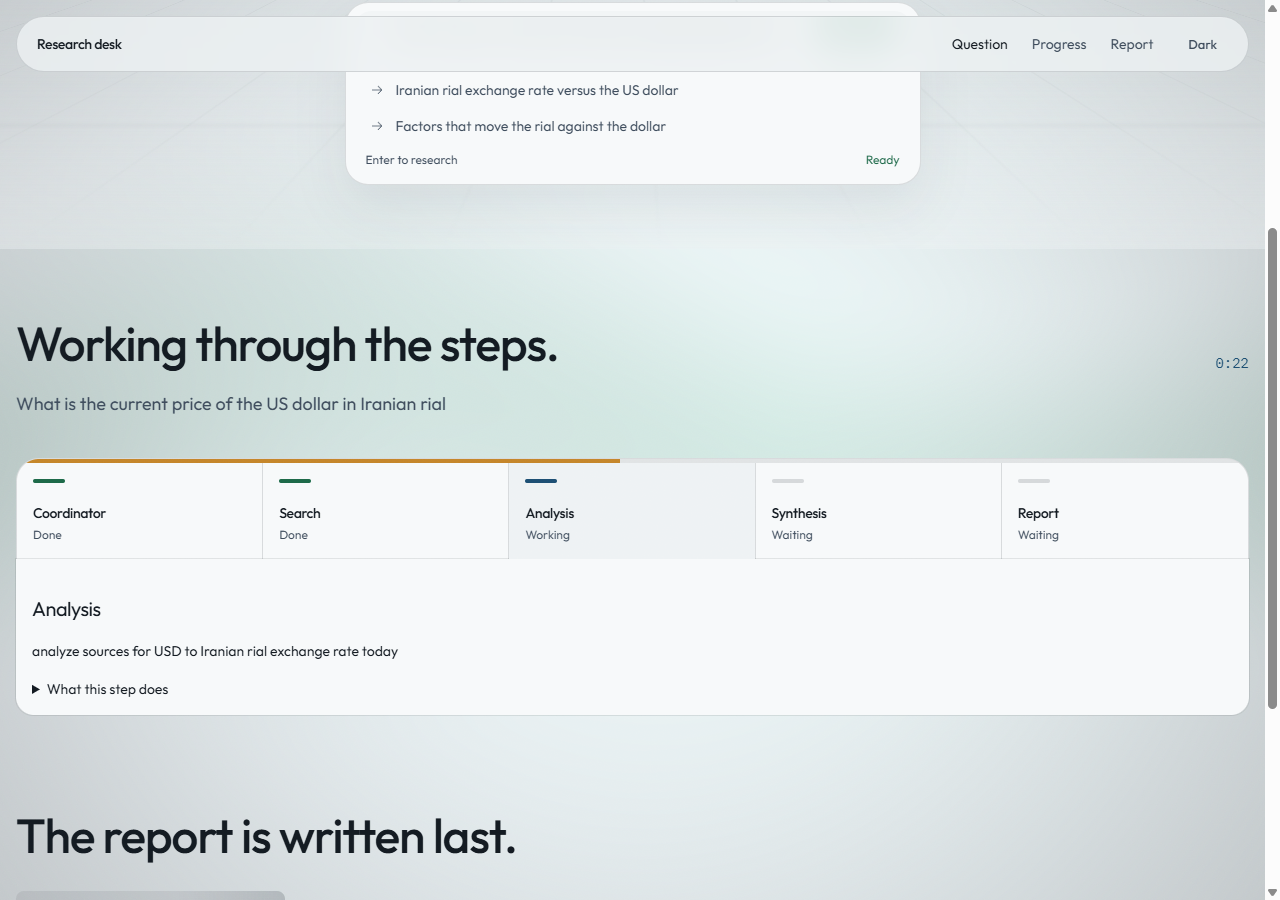
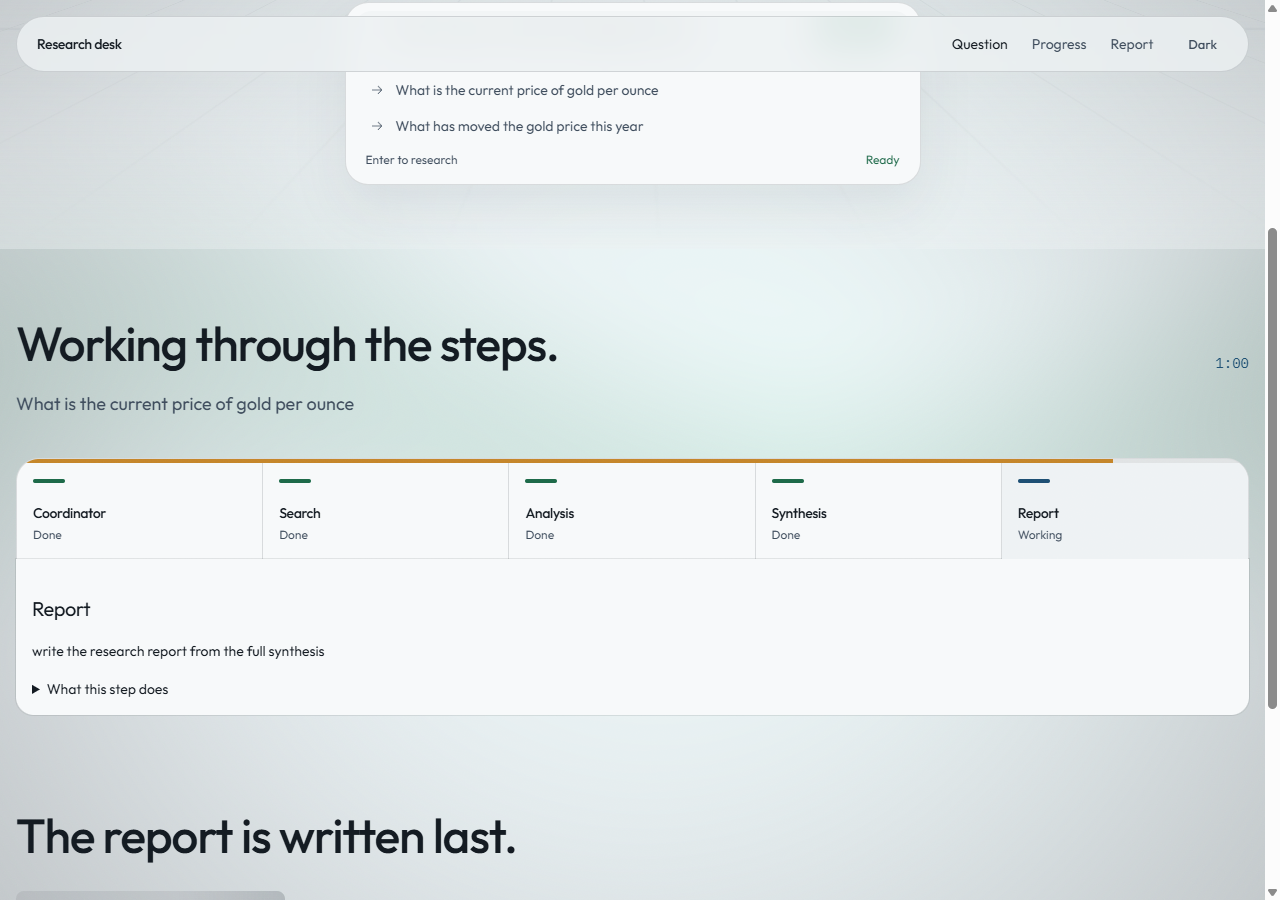
docs: use a gold price example in the desk and readme

diff --git a/apps/dashboard/app/board.tsx b/apps/dashboard/app/board.tsx
@@ -47,8 +47,8 @@ function wordCount(value: string) {
 }
 
 const examples = [
-  "Iranian rial exchange rate versus the US dollar",
-  "Factors that move the rial against the dollar",
+  "What is the current price of gold per ounce",
+  "What has moved the gold price this year",
 ];
 
 export function Board() {

diff --git a/README.md b/README.md
@@ -11,7 +11,7 @@ Ask one question. The coordinator talks to four specialists and returns a cited 
 
 ## A run
 
-Question: what is the current price of the US dollar in Iranian rial?
+Question: what is the current price of gold per ounce?
 
 ![The question in the desk](docs/images/question.png)
 
@@ -19,7 +19,7 @@ While the coordinator is still calling specialists, the track shows who is done 
 
 ![The run in progress](docs/images/running.png)
 
-The report answers that question. It does not collapse the price into one number. Wise states an official rate of 42,000 IRR per dollar. Iran Market Data states a free-market open of 2,653,000 IRR. A third figure, 1,374,600 IRR, stays unresolved.
+The report does not invent one price. The sources it found disagree: one news report cites about $4,657 per ounce, a historical series sits near $4,615 to $4,668, and Kitco shows $4,139.80 on a different date. The conflict stays in the report, with the citations.
 
 ![The cited report](docs/images/report.png)
 
@@ -94,7 +94,7 @@ Set `OPENCODE_API_KEY` in `.env`. A `provider:model` string such as `openai:gpt-
 ```python
 from research import run_coordinator
 
-result = run_coordinator("What is the current price of the US dollar in Iranian rial?")
+result = run_coordinator("What is the current price of gold per ounce?")
 print(result["answer"])
 ```
 
